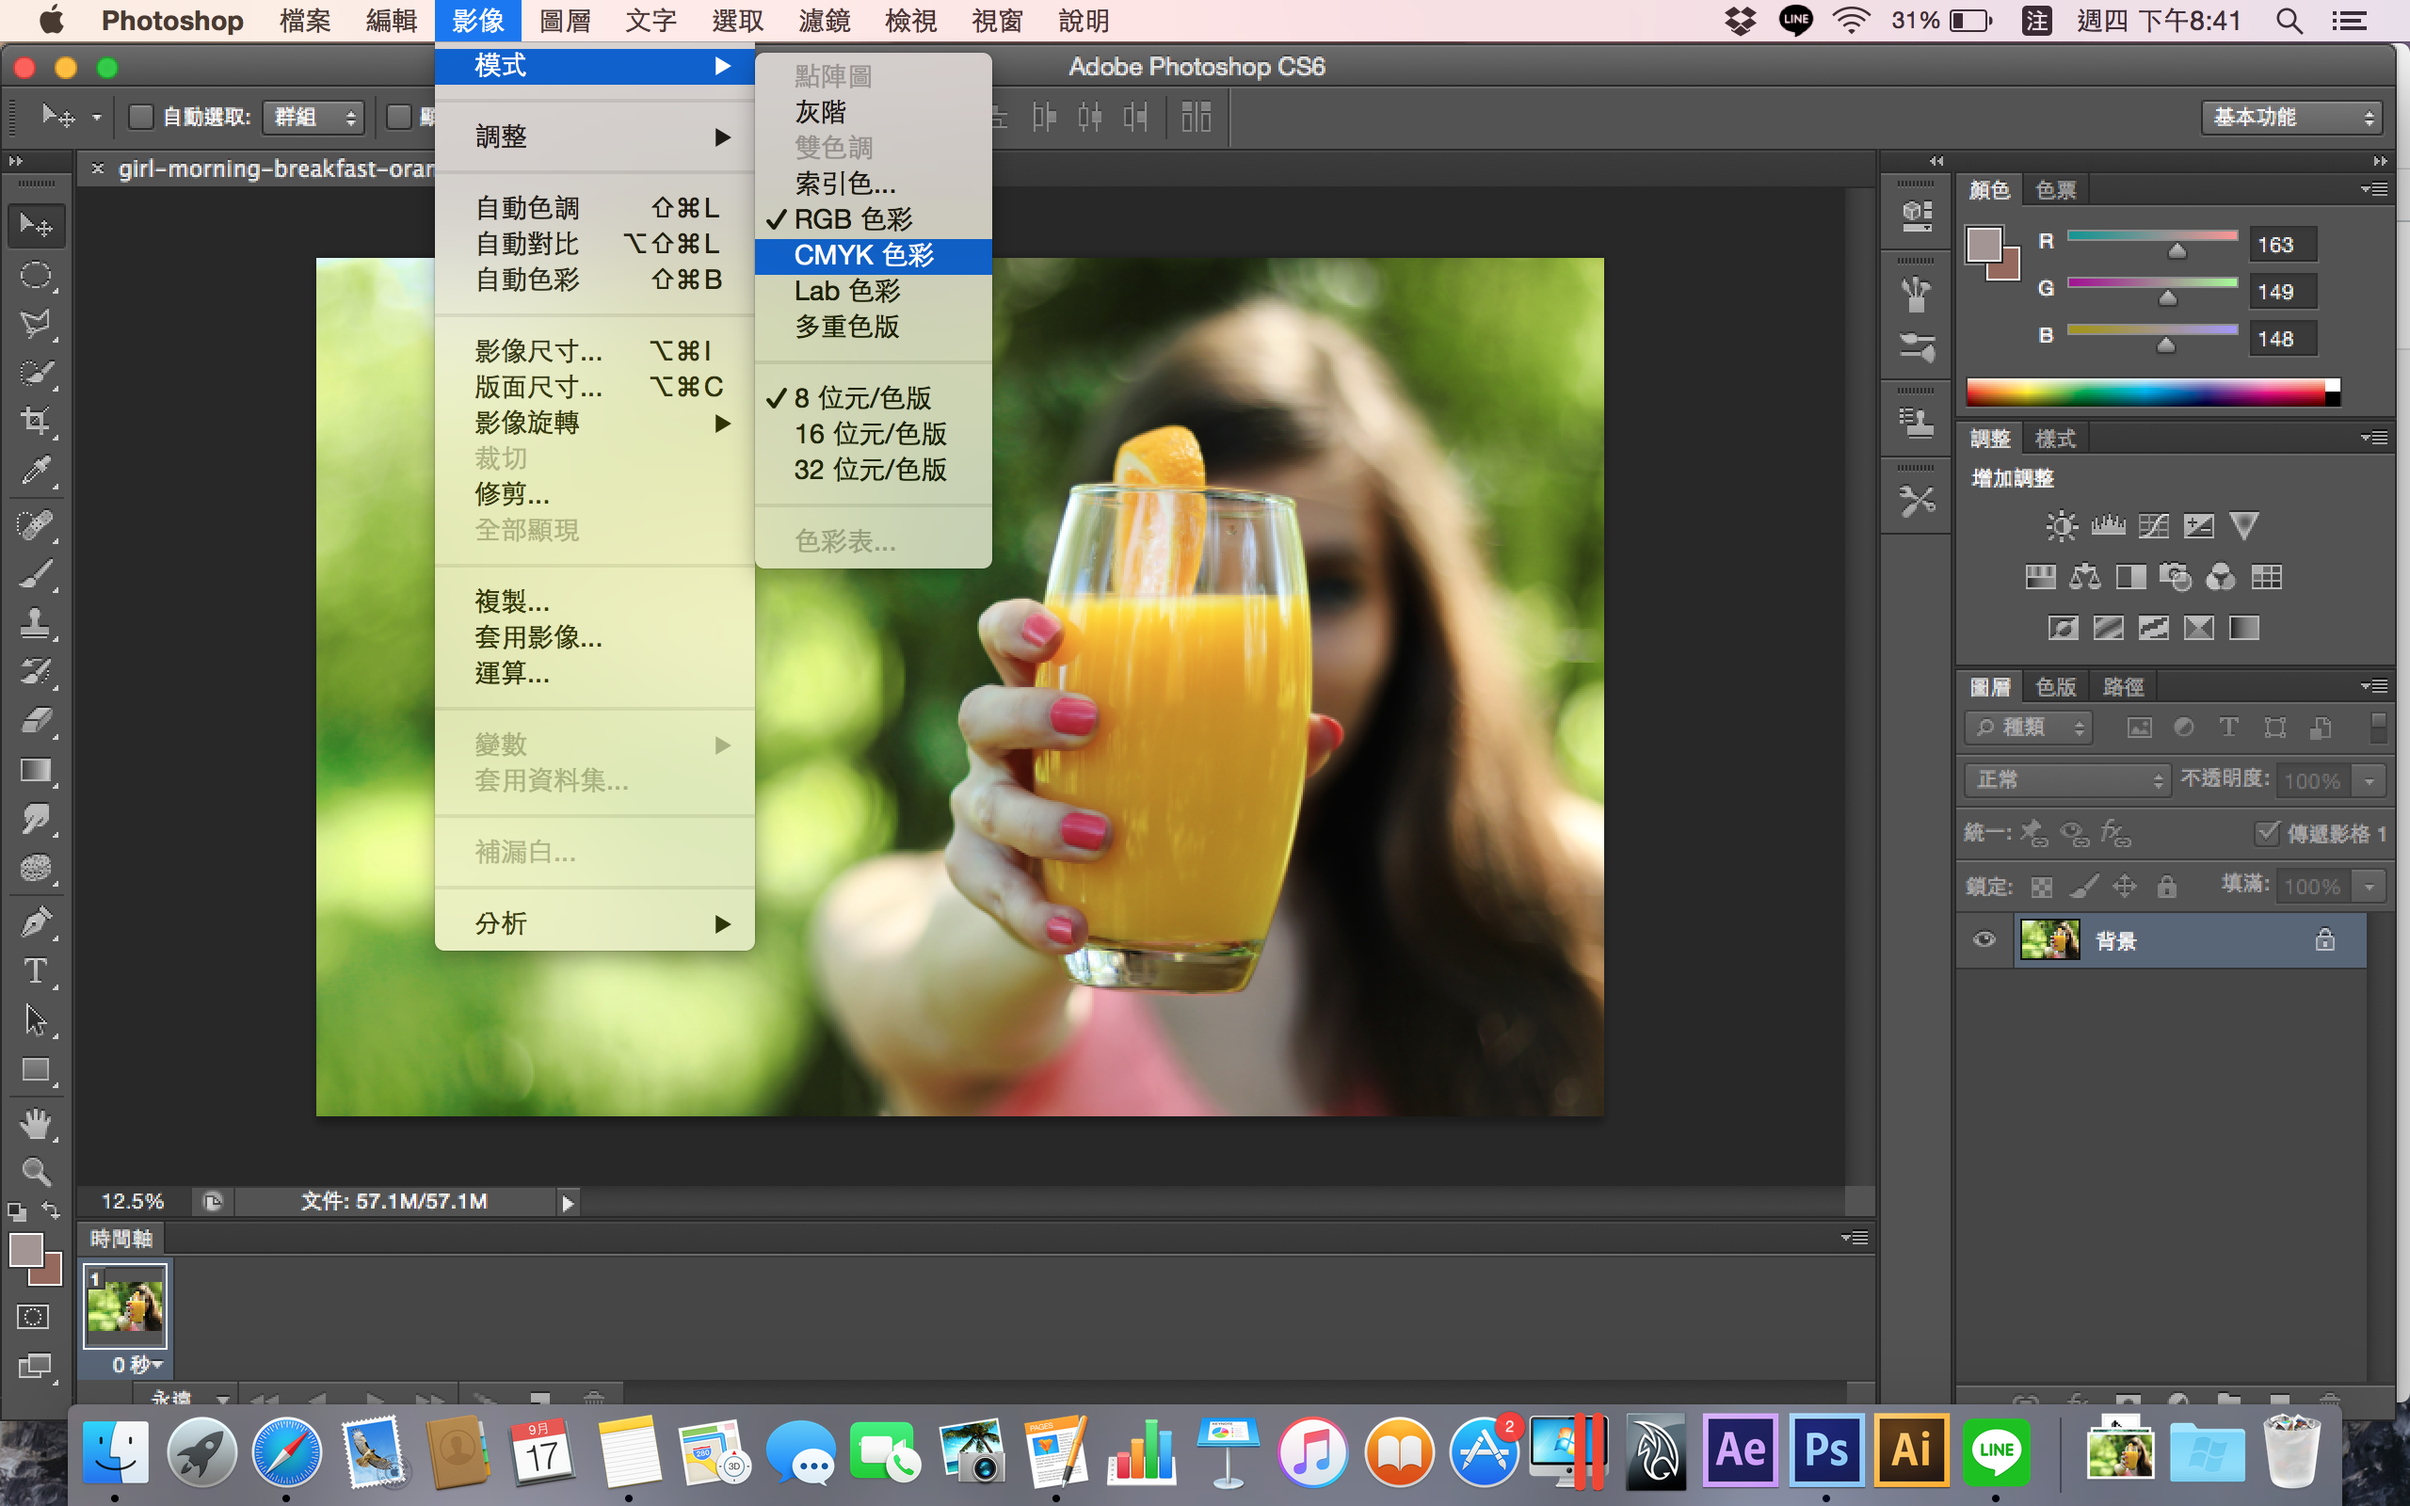
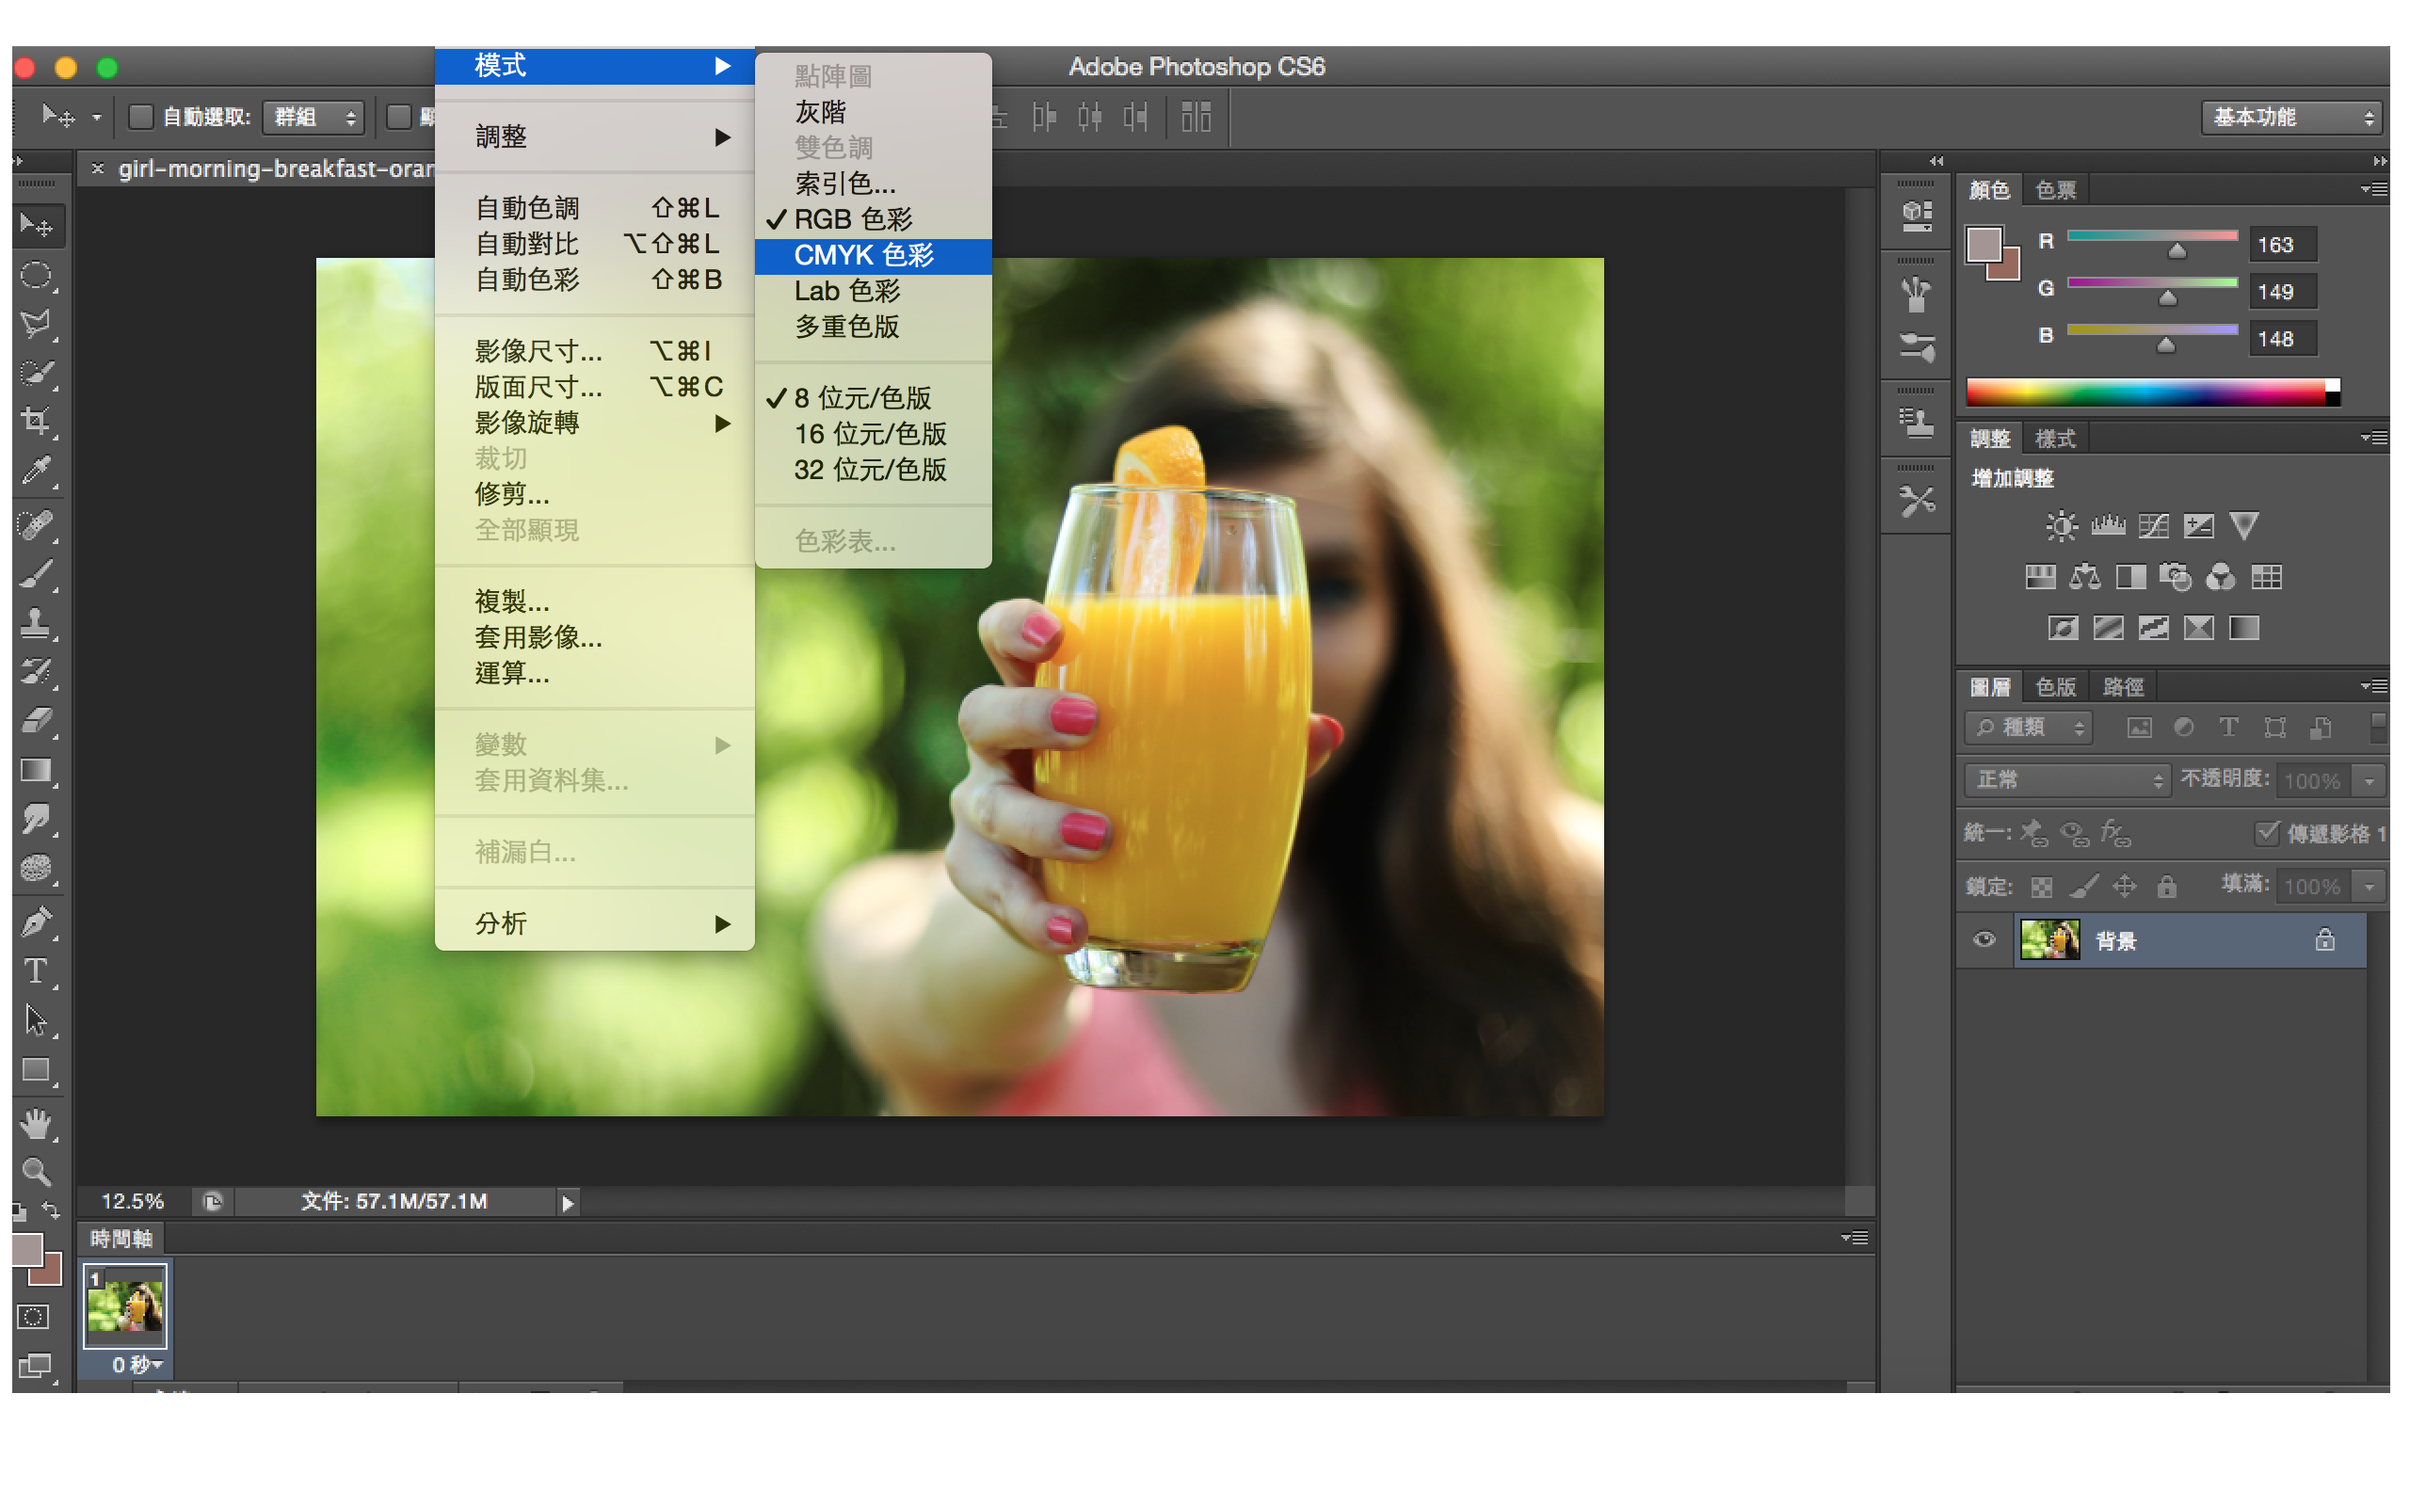
post_3

Changed region(s): [[0.0, 0.0, 1.0, 1.0]]

diff --git a/post-03.html b/post-03.html
@@ -1,0 +1,132 @@
+<!DOCTYPE html>
+<html lang="en">
+
+<head>
+
+    <meta charset="utf-8">
+    <meta http-equiv="X-UA-Compatible" content="IE=edge">
+    <meta name="viewport" content="width=device-width, initial-scale=1">
+    <meta name="description" content="">
+    <meta name="author" content="">
+
+    <title>Toppll - Photoshop</title>
+
+    <!-- Bootstrap Core CSS -->
+    <link href="css/bootstrap.min.css" rel="stylesheet">
+
+    <!-- Custom CSS -->
+    <link href="css/full-width-pics.css" rel="stylesheet">
+
+    <!-- HTML5 Shim and Respond.js IE8 support of HTML5 elements and media queries -->
+    <!-- WARNING: Respond.js doesn't work if you view the page via file:// -->
+    <!--[if lt IE 9]>
+        <script src="https://oss.maxcdn.com/libs/html5shiv/3.7.0/html5shiv.js"></script>
+        <script src="https://oss.maxcdn.com/libs/respond.js/1.4.2/respond.min.js"></script>
+    <![endif]-->
+
+</head>
+
+<body>
+
+    <!-- Navigation -->
+    <nav class="navbar navbar-inverse navbar-fixed-top" role="navigation">
+        <div class="container">
+            <!-- Brand and toggle get grouped for better mobile display -->
+            <div class="navbar-header">
+                <button type="button" class="navbar-toggle" data-toggle="collapse" data-target="#bs-example-navbar-collapse-1">
+                    <span class="sr-only">Toggle navigation</span>
+                    <span class="icon-bar"></span>
+                    <span class="icon-bar"></span>
+                    <span class="icon-bar"></span>
+                </button>
+                <a class="navbar-brand" href="#">Toppll</a>
+            </div>
+            <!-- Collect the nav links, forms, and other content for toggling -->
+            <div class="collapse navbar-collapse" id="bs-example-navbar-collapse-1">
+                <ul class="nav navbar-nav">
+                    <li>
+                        <a href="#">About</a>
+                    </li>
+                    <li>
+                        <a href="#">Blog</a>
+                    </li>
+                    <li>
+                        <a href="#">Contact</a>
+                    </li>
+                </ul>
+            </div>
+            <!-- /.navbar-collapse -->
+        </div>
+        <!-- /.container -->
+    </nav>
+
+    <!-- Full Width Image Header with Logo -->
+    <!-- Image backgrounds are set within the full-width-pics.css file. -->
+    <header class="image-bg-fluid-height">
+        <img class="img-responsive img-center" src="http://placehold.it/200x200&text=Logo" alt="">
+    </header>
+
+    <!-- Content Section -->
+    <section>
+        <div class="container">
+            <div class="row">
+                <div class="col-lg-12">
+                    <h1 class="section-heading">圖片要印刷時該注意什麼？</h1>
+                    <p class="lead section-lead">如果圖片僅在電腦上觀看，模式設定為RGB色彩即可，但是如果要印出來，照片模式就須設定為CMYK色彩，因為在電腦上能看到的顏色和印出來的顏色不同，所以必需設定影像的模式，不然有可能印出來的顏色會和電腦上的顏色差異很大喔！
+</p>
+                   
+                </div>
+            </div>
+        </div>
+    </section>
+
+    <!-- Fixed Height Image Aside -->
+    <!-- Image backgrounds are set within the full-width-pics.css file. -->
+    <aside class="image-bg-fixed-height"></aside>
+
+    <!-- Content Section -->
+    <section>
+        <div class="container">
+            <div class="row">
+                <div class="col-lg-12">
+                    <h1 class="section-heading">Step</h1>
+                    <p class="lead section-lead">影像 > 模式 > 選取CMYK色彩
+</p>
+                    <br>
+                    <br>   
+                    <center><img src="img/03_1.png" width="800px"></center>
+                    <br>
+                    <br> 
+                   <h3><p class="section-paragraph">➤ 黑白照片或素描作品，可將模式設定為<灰階>，這樣影像就會移除色相和飽和度資訊，只保留亮度值</h3>
+</p>
+                    <center><img src="img/03_2.png" width="800px"></center>
+                    <p class="section-paragraph"></p>
+                </div>
+            </div>
+            <!-- /.row -->
+        </div>
+        <!-- /.container -->
+    </section>
+
+    <!-- Footer -->
+    <footer>
+        <div class="container">
+            <div class="row">
+                <div class="col-lg-12">
+                    <p>Topple - Photoshop</p>
+                </div>
+            </div>
+            <!-- /.row -->
+        </div>
+        <!-- /.container -->
+    </footer>
+
+    <!-- jQuery -->
+    <script src="js/jquery.js"></script>
+
+    <!-- Bootstrap Core JavaScript -->
+    <script src="js/bootstrap.min.js"></script>
+
+</body>
+
+</html>
